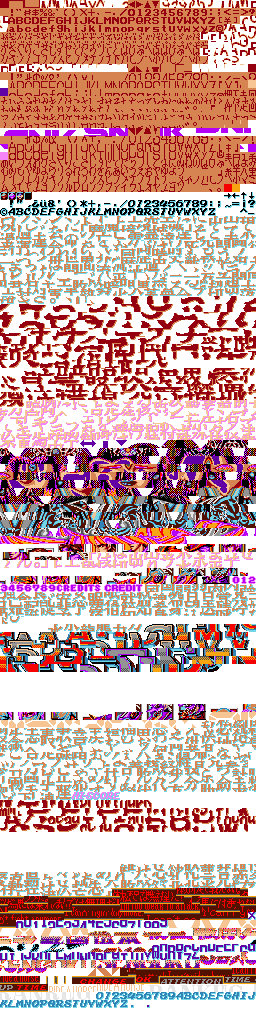
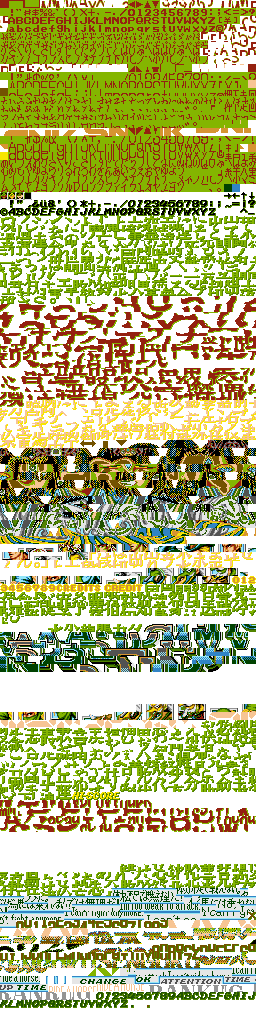
Add files via upload

diff --git a/Test_toolchain_HUD/Run_tests_HUD.m b/Test_toolchain_HUD/Run_tests_HUD.m
@@ -3,7 +3,14 @@ clear
 warning off
 tic
 %% Init section
-palette = [0x000A, 0x7901, 0x0D85, 0x5FC9, 0x060A, 0x5B0F, 0x5F8F, 0x4F00, 0x4FA1, 0x7555, 0x7999, 0x7EEE, 0x6510, 0x138B, 0x47DE, 0x0000]; %HUD vignette, all characters player 1
+% Except for Claude Yamamoto and Jack Stones, tilesets are doubled in the .s1 SROM (.FIX for NGCD)
+%palette = [0x000A, 0x7901, 0x0D85, 0x5FC9, 0x060A, 0x5B0F, 0x5F8F, 0x4F00, 0x4FA1, 0x7555, 0x7999, 0x7EEE, 0x6510, 0x138B, 0x47DE, 0x0000]; %HUD vignette, Claude Yamamoto
+palette = [0x000B, 0x7921, 0x68B0, 0x5FC9, 0x6750, 0x0D93, 0x6FE0, 0x0040, 0x638C, 0x29EF, 0x7555, 0x7999, 0x7EEE, 0x0250, 0x4580, 0x0000]; %HUD vignette, Jack Stone, Crow Tengu P2, Mike Walsh P1 and P2, Kirimaru P2
+%palette = [0x000C, 0x0332, 0x0D85, 0x3FC9, 0x7800, 0x0E00, 0x5F62, 0x0884, 0x6AA6, 0x6BB0, 0x7555, 0x7999, 0x7EEE, 0x6553, 0x6FF0, 0x0000]; %HUD vignette, Kirimary P1, Crow Tengu P1
+%palette = [0x000D, 0x0532, 0x4852, 0x4B74, 0x6D85, 0x4FA6, 0x4408, 0x271C, 0x5A0F, 0x468A, 0x4ACF, 0x7FFF, 0x4440, 0x6860, 0x6C90, 0x0000]; % unassigned to player
+%palette = [0x000E, 0x5831, 0x1C63, 0x7E85, 0x6FA9, 0x0024, 0x0137, 0x3349, 0x367B, 0x59CF, 0x2DDE, 0x4F90, 0x0700, 0x3D11, 0x4F55, 0x0000]; % princess head
+%palette = [0x000F, 0x0700, 0x4C11, 0x5831, 0x4F90, 0x1303, 0x4706, 0x6A29, 0x1D5B, 0x0025, 0x1049, 0x316C, 0x439E, 0x38AF, 0x2DDE, 0x0000]; % unassigned to player
+
 disp('Initialization completed')
 
 %% Transforms the pair of roms in png tileset + palette image to ckeck